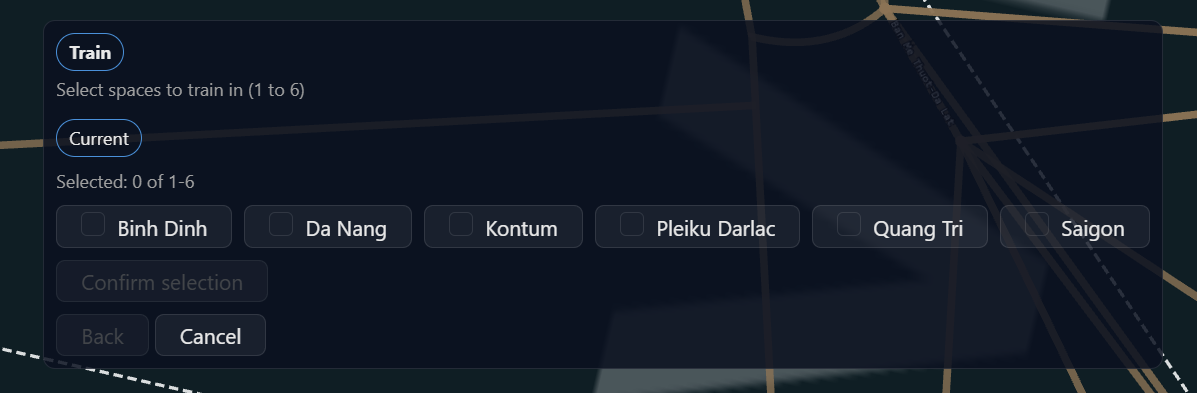
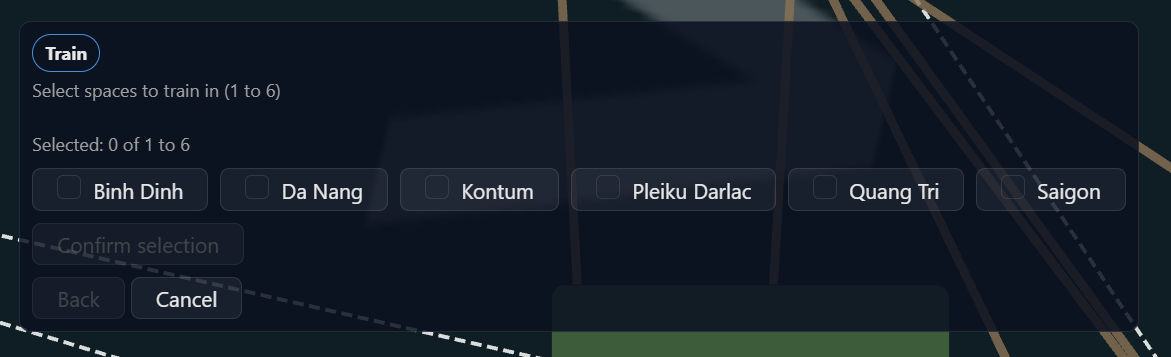
Implemented a new iteration of the train operation UI.

diff --git a/packages/runner/test/model/iteration-context.test.ts b/packages/runner/test/model/iteration-context.test.ts
@@ -155,11 +155,11 @@ describe('parseIterationContext', () => {
     expect(result!.currentEntityDisplayName).toBe('Da Nang');
   });
 
-  it('searches choice stack in reverse for the most recent array', () => {
+  it('uses depth-based forward scan to match the correct forEach array', () => {
     const choiceStack: readonly PartialChoice[] = [
-      makeChoice('decision:old', 'old-spaces', ['x', 'y']),
+      makeChoice('decision:outer', 'target-spaces', ['alpha', 'beta', 'gamma']),
       makeChoice('decision:scalar', 'action', 'train'),
-      makeChoice('decision:new', 'new-spaces', ['alpha', 'beta', 'gamma']),
+      makeChoice('decision:inner', 'source-spaces', ['x', 'y']),
     ];
     const zones = makeZonesMap(['beta', 'Beta']);
 
@@ -174,6 +174,28 @@ describe('parseIterationContext', () => {
       iterationTotal: 3,
       currentEntityId: 'beta',
       currentEntityDisplayName: 'Beta',
+    });
+  });
+
+  it('uses second array for depth-2 iteration path', () => {
+    const choiceStack: readonly PartialChoice[] = [
+      makeChoice('decision:outer', 'target-spaces', ['alpha', 'beta']),
+      makeChoice('decision:scalar', 'action', 'train'),
+      makeChoice('decision:inner', 'source-spaces', ['x', 'y', 'z']),
+    ];
+    const zones = makeZonesMap(['y', 'Y Zone']);
+
+    const result = parseIterationContext(
+      asDecisionKey('decision:sub::y[0][1]'),
+      choiceStack,
+      zones,
+    );
+
+    expect(result).toEqual({
+      iterationIndex: 1,
+      iterationTotal: 3,
+      currentEntityId: 'y',
+      currentEntityDisplayName: 'Y Zone',
     });
   });
 

diff --git a/packages/runner/src/model/iteration-context.ts b/packages/runner/src/model/iteration-context.ts
@@ -9,13 +9,28 @@ export interface IterationContext {
   readonly currentEntityDisplayName: string;
 }
 
-function findIterationArray(
+function countIterationDepth(iterationPath: string): number {
+  let count = 0;
+  for (const char of iterationPath) {
+    if (char === '[') {
+      count += 1;
+    }
+  }
+  return count;
+}
+
+function findIterationArrayByDepth(
   choiceStack: readonly PartialChoice[],
+  depth: number,
 ): readonly MoveParamValue[] | null {
-  for (let i = choiceStack.length - 1; i >= 0; i--) {
+  let arrayCount = 0;
+  for (let i = 0; i < choiceStack.length; i += 1) {
     const entry = choiceStack[i];
     if (entry !== undefined && Array.isArray(entry.value)) {
-      return entry.value as readonly MoveParamValue[];
+      arrayCount += 1;
+      if (arrayCount === depth) {
+        return entry.value as readonly MoveParamValue[];
+      }
     }
   }
   return null;
@@ -68,7 +83,8 @@ export function parseIterationContext(
     return null;
   }
 
-  const iterationArray = findIterationArray(choiceStack);
+  const depth = countIterationDepth(parsedDecisionKey.iterationPath);
+  const iterationArray = findIterationArrayByDepth(choiceStack, depth);
   if (iterationArray === null) {
     return null;
   }

diff --git a/packages/runner/src/ui/ChoicePanel.tsx b/packages/runner/src/ui/ChoicePanel.tsx
@@ -162,7 +162,8 @@ function MultiSelectMode({ choiceUi, addChooseNItem, removeChooseNItem, confirmC
           const isDisabled = !isLegalScalar;
 
           const resCss = resolutionCssClass(option.resolution);
-          const baseClass = isSelected ? `${styles.optionButton} ${styles.optionSelected}` : styles.optionButton;
+          const unselectedCss = !isSelected && selectedCount > 0 ? ` ${styles.optionUnselected}` : '';
+          const baseClass = isSelected ? `${styles.optionButton} ${styles.optionSelected}` : `${styles.optionButton}${unselectedCss}`;
           const buttonClass = resCss !== '' ? `${baseClass} ${resCss}` : baseClass;
           const indicator = resolutionIndicatorText(option.resolution);
 

diff --git a/packages/runner/src/ui/ChoicePanel.module.css b/packages/runner/src/ui/ChoicePanel.module.css
@@ -4,7 +4,8 @@
   gap: var(--space-sm);
   margin: var(--space-sm);
   padding: var(--space-sm);
-  background: var(--bg-panel);
+  background: rgba(11, 16, 32, 0.72);
+  backdrop-filter: blur(12px);
   border: 1px solid var(--border-subtle);
   border-radius: 8px;
   color: var(--text-primary);
@@ -155,6 +156,11 @@
 .optionSelected {
   border-color: var(--accent);
   background: rgba(74, 144, 217, 0.18);
+}
+
+.optionUnselected {
+  opacity: 0.55;
+  border-style: dashed;
 }
 
 .checkboxIndicator {

diff --git a/reports/ui-readability-evaluation.md b/reports/ui-readability-evaluation.md
@@ -281,3 +281,78 @@ N/A (baseline evaluation)
 4. **[LOW] Investigate the dark rectangle overlay.** The semi-transparent dark rectangle overlapping the map canvas behind the choice panel persists across all three evaluations. Not blocking but adds visual noise. Likely a z-index or background layer issue.
 
 5. **[LOW] Consider removing the lone "Current" badge on the first decision screen.** In screenshot 1, the "Current" badge appears with no prior breadcrumb entries. It's harmless but slightly confusing — the player hasn't navigated anywhere yet, so "Current" lacks context. Consider showing the breadcrumb area only after the first decision is made.
+
+---
+
+## EVALUATION #4
+
+**Date**: 2026-03-29
+**Screenshots analyzed**: fitl-train-1.png through fitl-train-5.png
+
+### Screenshot Analysis
+
+#### fitl-train-1.png — Initial Target Space Selection (Empty)
+**What's shown**: The Train choice panel at the start. Player must select target spaces for training. No spaces selected. Six zone checkbox buttons displayed.
+**Issues observed**:
+- Prompt reads "Select spaces to train in (1 to 6)" — human-readable, unchanged from Eval #3.
+- Counter now reads "Selected: 0 of 1 to 6" — the format is harmonized with the prompt. Previously it read "0 of 1-6". This was a MEDIUM recommendation in Eval #3, now fixed.
+- The lone "Current" breadcrumb badge that appeared with no prior entries in Eval #1-3 is no longer visible on this screen. This was a LOW recommendation in Eval #3, now fixed.
+- The dark semi-transparent rectangle overlay on the map canvas persists behind the panel.
+- Zone names are clean and readable.
+
+#### fitl-train-2.png — Target Space Selection (3 Selected)
+**What's shown**: Player has selected 3 spaces (Binh Dinh, Da Nang, Pleiku Darlac). Selected options show blue-tinted styling with "x" marks and strikethrough text. Unselected options appear lighter.
+**Issues observed**:
+- Prompt dynamically updated to "Select spaces to train in (1 to 3)" — correct, same as Eval #3.
+- Counter reads "Selected: 3 of 1 to 3" — harmonized format using "to" instead of the previous dash notation. Consistent with the prompt.
+- No misleading error messages under selected options — clean, same as Eval #3.
+- Selected options show clear strikethrough text styling, making the selected/unselected distinction more readable than before.
+- Unselected options (Kontum, Quang Tri, Saigon) remain subtly lighter — the visual distinction is still modest but adequate given the clear selected-state styling.
+- "Confirm selection" button is active. Clean state.
+
+#### fitl-train-3.png — Train Sub-Choice (Place Irregulars vs Place At Base)
+**What's shown**: Binary choice between "Place Irregulars" and "Place At Base" after selecting target spaces.
+**Issues observed**:
+- Prompt reads "How do you want to train?" — natural language, unchanged from Eval #3.
+- Breadcrumb reads "Target Spaces: Binh Dinh, Da Nang, Pleiku Darlac" with "Current" badge — clean and readable.
+- Both option buttons are well-labeled and clear.
+- Panel is compact and well-organized. This screen remains fully resolved.
+
+#### fitl-train-4.png — Deep Nested Choice (Source Spaces in forEach)
+**What's shown**: Inside a forEach loop, player selects source spaces (up to 3) for reinforcements.
+**Issues observed**:
+- Prompt reads "Select source spaces for reinforcements (up to 3)" — human-readable, unchanged from Eval #3.
+- Counter now reads "Selected: 0 of up to 3" — harmonized with the prompt's "(up to 3)" format. Previously it read "0 of 0-3". This resolves the format inconsistency noted in Eval #3.
+- Breadcrumb shows "..." → "Train Choice: Place Irregulars" → "Train Choice: Place At Base" → "Train Choice: Place Irregulars" → "Current". The repeated "Train Choice" entries still lack forEach iteration context — the player cannot tell which target space (Binh Dinh, Da Nang, or Pleiku Darlac) is being processed. This was the #1 HIGH recommendation in Eval #3 and remains unaddressed.
+- Zone options (Binh Dinh, Pleiku Darlac, Quang Tri) are clean.
+
+#### fitl-train-5.png — Deepest Nested Choice (Sub-Action Spaces)
+**What's shown**: Deepest nesting level. Player selects additional space for the current action (up to 1).
+**Issues observed**:
+- Prompt reads "Select additional space for this action (up to 1)" — fully human-readable, unchanged from Eval #3.
+- Counter reads "Selected: 0 of up to 1" — harmonized format. Previously read "0 of 0-1".
+- Breadcrumb shows "..." → "Train Choice: Place At Base" → "Train Choice: Place Irregulars" → "Source Spaces: Binh Dinh, Pleiku Darlac, Quang Tri" → "Current". Clean, no raw AST paths. The breadcrumb is compact and the decision area has adequate space.
+- Zone options (Binh Dinh, Da Nang, Pleiku Darlac) are clean.
+- Same forEach iteration context issue as screenshot 4 — "Train Choice" entries don't indicate iteration progress.
+
+### Scores
+
+| # | Metric | Score | Previous | Delta | Justification |
+|---|--------|-------|----------|-------|---------------|
+| 1 | Decision Prompt Clarity | 8 | 8 | 0 | All prompts remain human-readable across all 5 screens. No regressions. No further improvements needed — prompts are clear and contextual. |
+| 2 | Option Legibility | 8 | 8 | 0 | Zone names clean, action names clear. Selected option styling with strikethrough and "x" marks is effective. No "None" suffixes. No misleading errors. |
+| 3 | Breadcrumb Navigability | 7 | 6 | +1 | Lone "Current" badge removed from the first screen (Eval #3 LOW fix). Breadcrumbs remain clean with "..." collapse. Repeated "Train Choice" entries still lack forEach iteration context — the main remaining issue. |
+| 4 | Error Communication | 7 | 6 | +1 | Range format harmonization means the counter no longer contradicts the prompt format, removing a subtle source of confusion. No misleading error messages. The range communication is now consistent and clear. |
+| 5 | Information Density | 8 | 7 | +1 | Harmonized counter format ("0 of up to 3" instead of "0 of 0-3") improves readability of the selection state. No wasted space. Decision areas have adequate room even at deepest nesting. |
+| 6 | Visual Hierarchy | 7 | 7 | 0 | Clean visual flow maintained: "Train" badge → descriptive prompt → breadcrumb → options → buttons. No raw text competes for attention. The "Current" badge removal on the first screen slightly reduces visual noise. |
+| | **Average** | **7.5** | **7.0** | **+0.5** | |
+
+### Prioritized Recommendations
+
+1. **[HIGH] Add forEach iteration context to breadcrumbs.** The repeated "Train Choice: Place Irregulars" / "Train Choice: Place At Base" entries in screenshots 4-5 don't indicate which target space is being processed or which iteration the player is on. Labels like "Training Binh Dinh (1/3)" or "Iteration 1: Binh Dinh" would orient the player within the forEach loop. This has been the #1 remaining issue since Eval #3 — it is the primary blocker to reaching an 8+ breadcrumb score.
+
+2. **[MEDIUM] Improve visual distinction for unavailable/unselected options.** In screenshot 2, unselected options (Kontum, Quang Tri, Saigon) are only subtly lighter than selected ones. While the selected-state styling (blue tint, strikethrough, "x") is now effective, the unselected options could benefit from stronger dimming or a muted icon to make the distinction immediate at a glance. Carried from Eval #3.
+
+3. **[LOW] Investigate the dark rectangle overlay.** The semi-transparent dark rectangle overlapping the map canvas behind the choice panel persists across all four evaluations. Not blocking functionality but adds visual noise. Likely a z-index or background layer issue in the canvas/panel stacking.
+
+4. **[LOW] Consider adding a brief contextual subtitle on deeper decision screens.** Screenshots 4-5 prompt "Select source spaces for reinforcements" and "Select additional space for this action" — clear prompts, but a one-line subtitle like "Placing Irregular troops in Binh Dinh" would reinforce what the player is doing within the broader Train operation. This would complement the forEach iteration context fix in recommendation #1.
